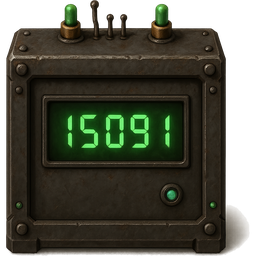
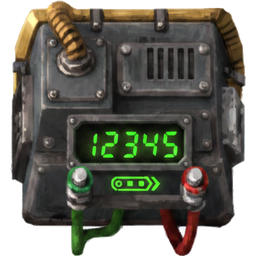
Replace entity art with Gemini image-to-image off the real combinator
OpenAI text-steering kept missing Factorio's oblique pose (isometric, then
side-angle, then dead-front). Switched to Gemini (nano-banana) image-to-image
feeding the actual constant-combinator frame as reference, which preserves the
exact camera angle while restyling surfaces. Final sprite (gem_1, user-picked):
gunmetal box, brass trim, green readout + conveyor arrow, red/green wire stubs.

- tools/gen_from_ref.py: reusable Gemini image-to-image step.
- tools/process_entity.py: add --white-bg flood-fill + feather (Gemini returns
  opaque white bg).
- icon derived from same art for inventory/entity consistency.
- SCALE bumped to ~0.18 to match the base combinator's on-screen box size.

diff --git a/tools/process_entity.py b/tools/process_entity.py
@@ -1,19 +1,68 @@
 #!/usr/bin/env python3
 """
-Turn a raw 1024px entity render into a clean, square, in-world sprite.
+Turn a raw render into a clean, square, transparent in-world sprite.
 
-  - drop faint baked ground shadow (alpha threshold)
-  - trim to the object's alpha bounding box
-  - pad to a centered square so Factorio `shift` math is simple
-  - downscale to a crisp source size
+  --white-bg : flood-fill the white background to transparent (for generators
+               that return an opaque white bg, e.g. Gemini), with edge feather
+  then: drop faint leftover pixels, trim to the object's alpha bbox,
+        pad to a centered square, downscale to a crisp source size.
 
-Usage: tools/.venv/bin/python tools/process_entity.py <raw.png> [out.png] [--size 256]
-Run with the venv python (Pillow installed there).
+Usage:
+  tools/.venv/bin/python tools/process_entity.py <raw.png> [out.png] [--size 256] [--white-bg]
 """
 import sys
+from collections import deque
 from PIL import Image
 
-ALPHA_FLOOR = 30   # pixels fainter than this (e.g. soft shadow) become transparent
+ALPHA_FLOOR = 30   # pixels fainter than this become fully transparent
+
+
+def remove_white_bg(img, tol=38, feather=55):
+    img = img.convert("RGBA")
+    w, h = img.size
+    px = img.load()
+
+    def near_white(c, t):
+        return c[0] >= 255 - t and c[1] >= 255 - t and c[2] >= 255 - t
+
+    visited = bytearray(w * h)
+    dq = deque()
+    for x in range(w):
+        dq.append((x, 0)); dq.append((x, h - 1))
+    for y in range(h):
+        dq.append((0, y)); dq.append((w - 1, y))
+
+    # flood fill the connected white background
+    while dq:
+        x, y = dq.popleft()
+        i = y * w + x
+        if visited[i]:
+            continue
+        visited[i] = 1
+        c = px[x, y]
+        if near_white(c, tol):
+            px[x, y] = (c[0], c[1], c[2], 0)
+            if x + 1 < w and not visited[i + 1]: dq.append((x + 1, y))
+            if x - 1 >= 0 and not visited[i - 1]: dq.append((x - 1, y))
+            if y + 1 < h and not visited[i + w]: dq.append((x, y + 1))
+            if y - 1 >= 0 and not visited[i - w]: dq.append((x, y - 1))
+
+    # feather: soften light edge pixels that touch a now-transparent pixel
+    for y in range(h):
+        for x in range(w):
+            c = px[x, y]
+            if c[3] == 0:
+                continue
+            lum = (c[0] + c[1] + c[2]) / 3
+            if lum >= 255 - feather:
+                touches = False
+                for nx, ny in ((x+1, y), (x-1, y), (x, y+1), (x, y-1)):
+                    if 0 <= nx < w and 0 <= ny < h and px[nx, ny][3] == 0:
+                        touches = True; break
+                if touches:
+                    a = int(max(0, min(255, (255 - lum) / feather * 255)))
+                    px[x, y] = (c[0], c[1], c[2], a)
+    return img
 
 
 def main():
@@ -25,10 +74,11 @@ def main():
         size = int(sys.argv[sys.argv.index("--size") + 1])
 
     img = Image.open(src).convert("RGBA")
+    if "--white-bg" in sys.argv:
+        img = remove_white_bg(img)
+
     px = img.load()
     w, h = img.size
-
-    # knock out faint pixels (shadow halo) so the bbox is the real object
     for y in range(h):
         for x in range(w):
             r, g, b, a = px[x, y]
@@ -37,14 +87,12 @@ def main():
 
     bbox = img.getbbox()
     if not bbox:
-        raise SystemExit("image is fully transparent after threshold")
+        raise SystemExit("image is fully transparent after processing")
     obj = img.crop(bbox)
     ow, oh = obj.size
-
     side = max(ow, oh)
     square = Image.new("RGBA", (side, side), (0, 0, 0, 0))
     square.paste(obj, ((side - ow) // 2, (side - oh) // 2))
-
     square = square.resize((size, size), Image.LANCZOS)
     square.save(out)
     print(f"object bbox {ow}x{oh} -> square {side} -> {out} ({size}x{size})")

diff --git a/tools/gen_from_ref.py b/tools/gen_from_ref.py
@@ -1,0 +1,72 @@
+#!/usr/bin/env python3
+"""
+Image-to-image asset generation via Gemini (nano-banana / gemini-2.5-flash-image).
+
+This is the approach that worked for the belt-counter entity: feed the real
+Factorio constant-combinator frame as a reference so the generated art inherits
+its exact oblique camera pose, then restyle the surfaces via the prompt.
+
+Reads GEMINI_API_KEY from the Hexfall .env (or the environment). Stdlib only;
+run with any python3 (no Pillow needed here).
+
+Usage:
+  python3 tools/gen_from_ref.py <ref.png> "<prompt>" [--n 2] [--out-prefix graphics/_raw/gen]
+"""
+import os
+import sys
+import json
+import base64
+import urllib.request
+import urllib.error
+
+ENV_PATH = os.path.expanduser("~/dev/hexfall/.env")
+MODEL = "gemini-2.5-flash-image"
+
+
+def load_key():
+    if os.environ.get("GEMINI_API_KEY"):
+        return os.environ["GEMINI_API_KEY"]
+    if os.path.exists(ENV_PATH):
+        for line in open(ENV_PATH):
+            if line.startswith("GEMINI_API_KEY="):
+                return line.split("=", 1)[1].strip().strip('"').strip("'")
+    raise SystemExit("GEMINI_API_KEY not found in env or hexfall .env")
+
+
+def main():
+    pos = [a for a in sys.argv[1:] if not a.startswith("--")]
+    ref, prompt = pos[0], pos[1]
+    n = int(sys.argv[sys.argv.index("--n") + 1]) if "--n" in sys.argv else 2
+    prefix = (sys.argv[sys.argv.index("--out-prefix") + 1]
+              if "--out-prefix" in sys.argv else "graphics/_raw/gen")
+
+    key = load_key()
+    ref_b64 = base64.b64encode(open(ref, "rb").read()).decode()
+    url = f"https://generativelanguage.googleapis.com/v1beta/models/{MODEL}:generateContent?key={key}"
+
+    for i in range(n):
+        body = json.dumps({"contents": [{"parts": [
+            {"text": prompt},
+            {"inline_data": {"mime_type": "image/png", "data": ref_b64}},
+        ]}]}).encode()
+        req = urllib.request.Request(url, data=body,
+                                     headers={"Content-Type": "application/json"}, method="POST")
+        try:
+            with urllib.request.urlopen(req, timeout=180) as r:
+                d = json.load(r)
+        except urllib.error.HTTPError as e:
+            print("HTTP", e.code, e.read().decode()[:400]); continue
+        parts = d.get("candidates", [{}])[0].get("content", {}).get("parts", [])
+        wrote = False
+        for p in parts:
+            inl = p.get("inlineData") or p.get("inline_data")
+            if inl:
+                path = f"{prefix}_{i}.png"
+                open(path, "wb").write(base64.b64decode(inl["data"]))
+                print("wrote", path); wrote = True
+        if not wrote:
+            print("no image in response:", json.dumps(d)[:300])
+
+
+if __name__ == "__main__":
+    main()